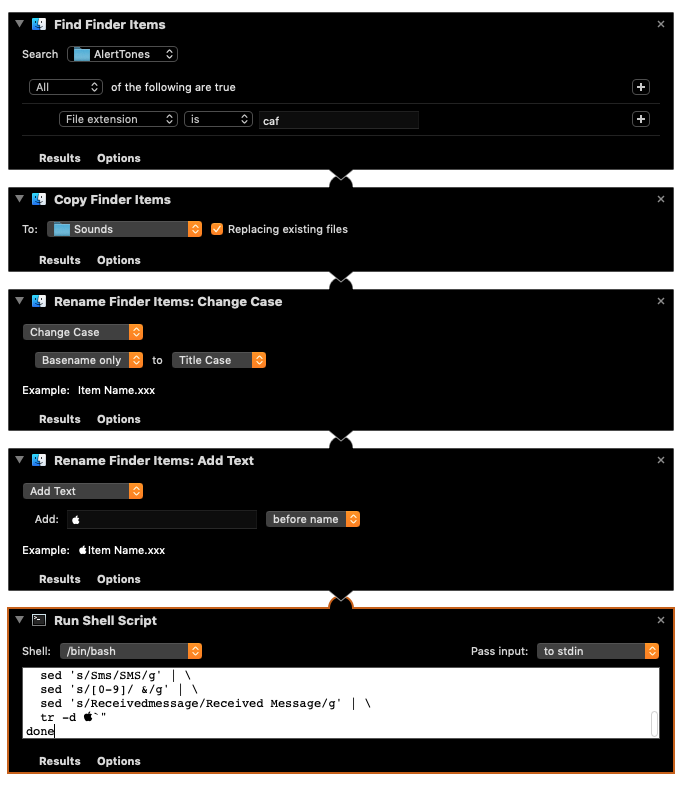
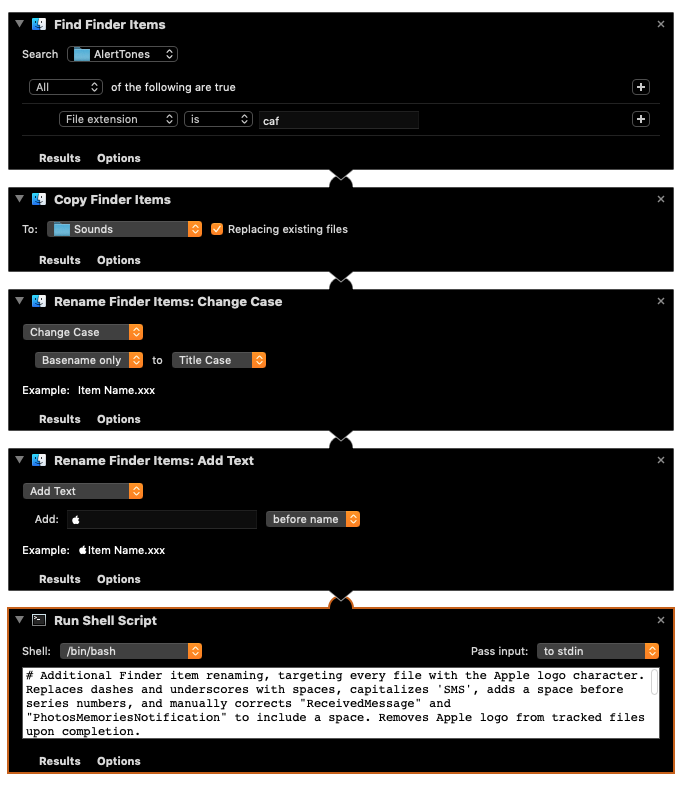
added PhotosMemoriesNotification.caf support

Changed region(s): [[0.0308, 0.8561, 0.9545, 0.9478]]

diff --git a/add-alerttones-to-sound-library/README.MD b/add-alerttones-to-sound-library/README.MD
@@ -41,7 +41,7 @@ This extra character entry is used to track the new files in the shell script be
 ### Run Shell Script
 ~~~~
 #!/bin/bash
-# Additional Finder item renaming, targeting every file with the Apple logo character. Replaces dashes and underscores with spaces, capitalizes 'SMS', adds a space before series numbers, and manually corrects "ReceivedMessage" to include a space. Removes Apple logo from tracked files upon completion.
+# Additional Finder item renaming, targeting every file with the Apple logo character. Replaces dashes and underscores with spaces, capitalizes 'SMS', adds a space before series numbers, and manually corrects "ReceivedMessage" and "PhotosMemoriesNotification" to include a space. Removes Apple logo from tracked files upon completion.
 
 for file in ~/Library/Sounds/**; do
   mv "$file" "`echo $file | \
@@ -50,6 +50,7 @@ for file in ~/Library/Sounds/**; do
   sed 's/Sms/SMS/g' | \
   sed 's/[0-9]/ &/g' | \
   sed 's/Receivedmessage/Received Message/g' | \
+  sed 's/Photosmemoriesnotification/Photos Memories Notification/g' | \
   tr -d `"
 done
 ~~~~
